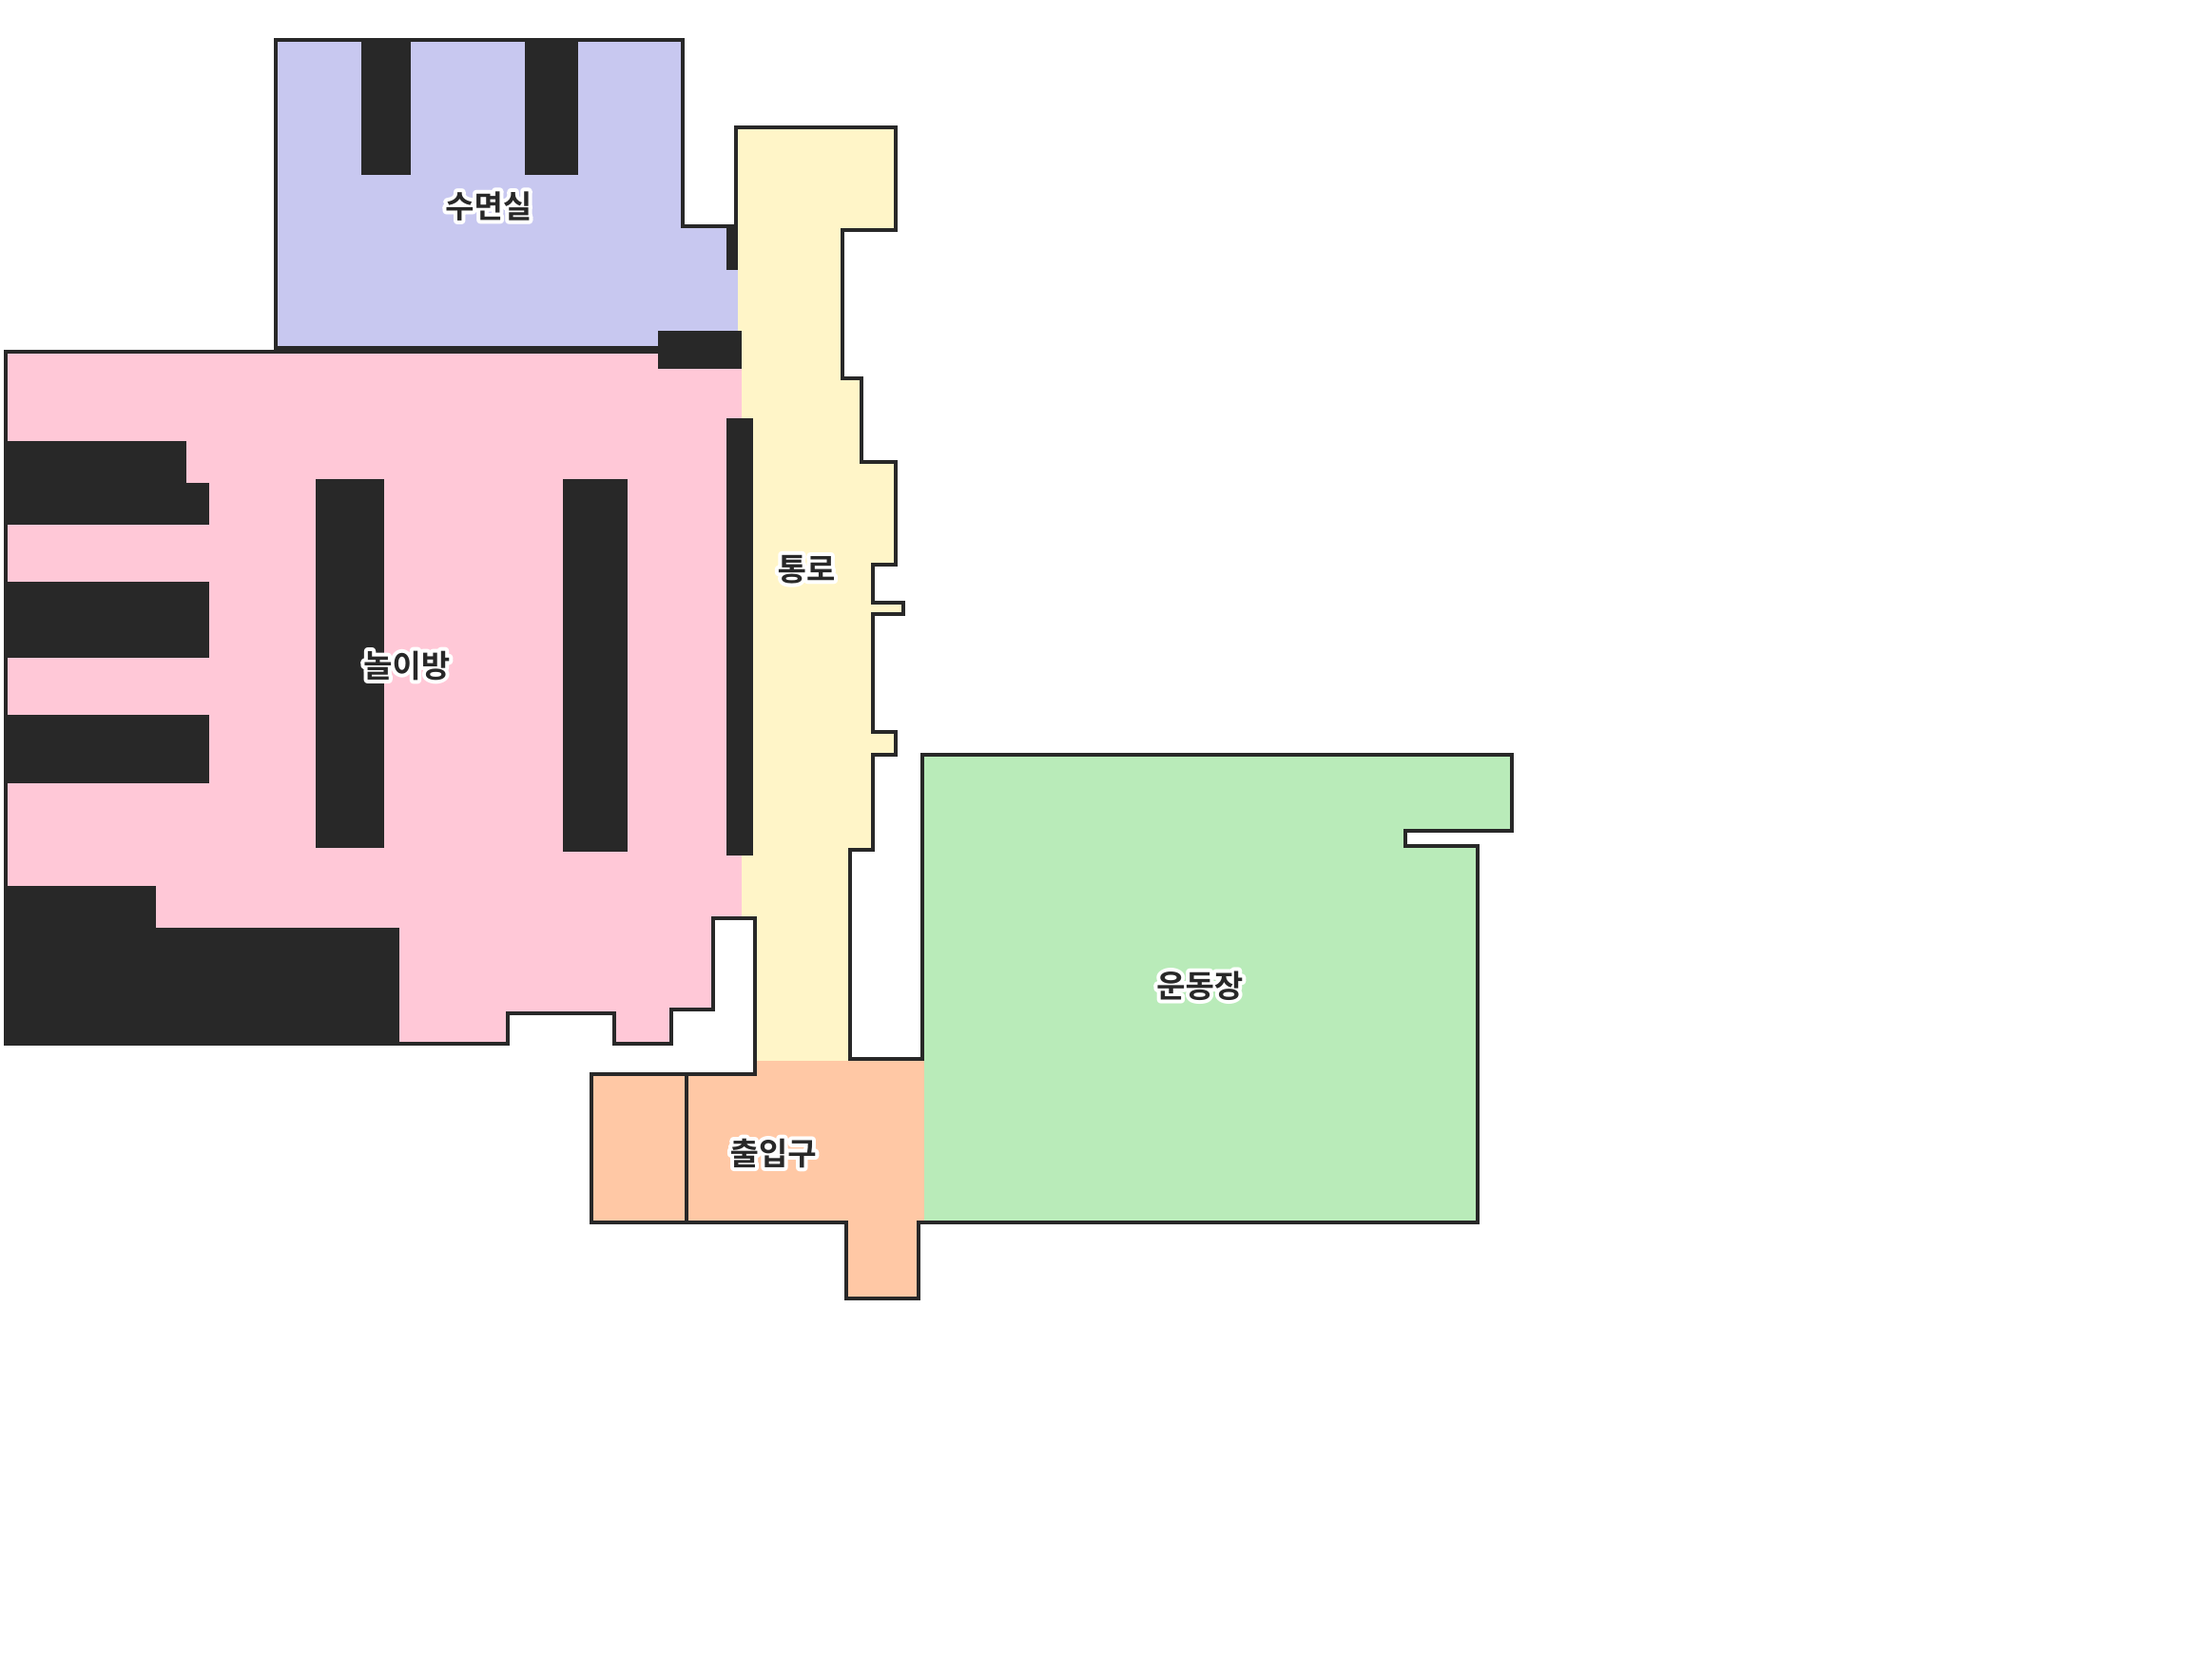
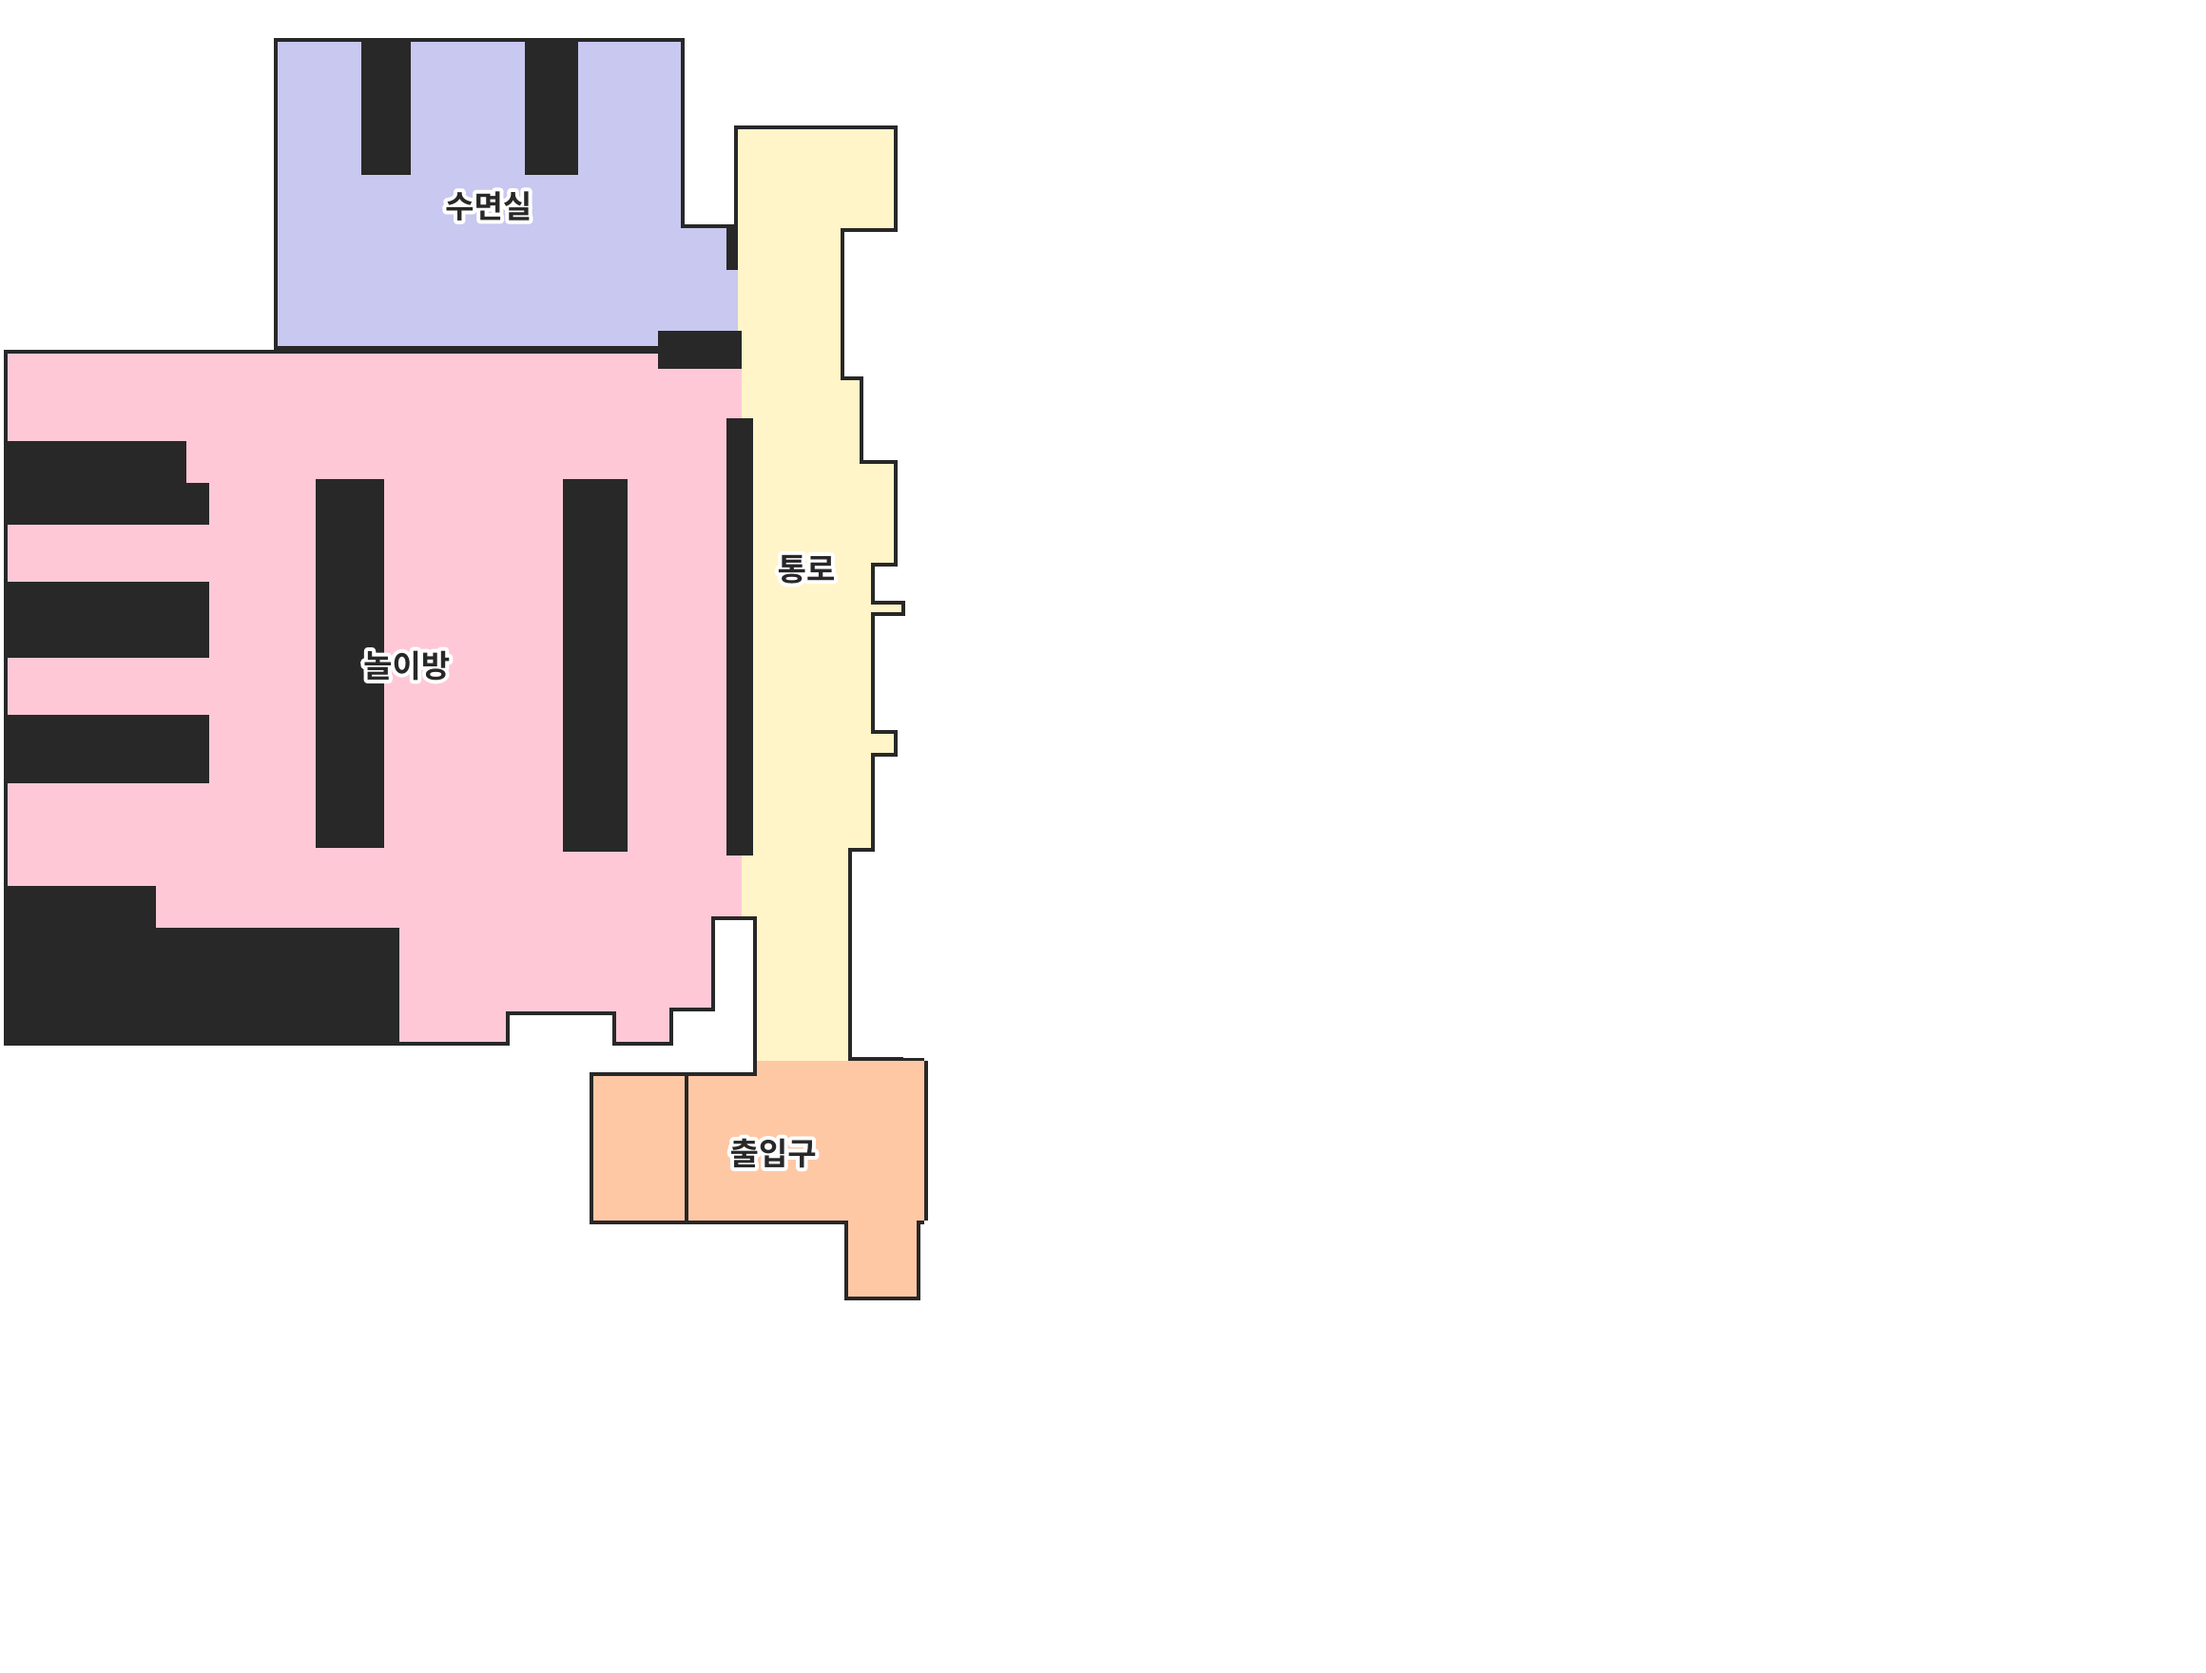
chore: remove 운동장 vertex references (default dest, aliases, map)

Changed region(s): [[0.4034, 0.4375, 0.7138, 0.75]]

diff --git a/service/ai-service/ai_service/intents/gogoping/goto_vertex.py b/service/ai-service/ai_service/intents/gogoping/goto_vertex.py
@@ -1,8 +1,8 @@
 """gogoping 전용 — 'X로 가' / 'X에 가' vertex routing.
 
 추가 기능:
-- vertex alias — 자연어 구절("밖으로 나가")을 특정 vertex(운동장)로 매핑. vertex 이름을
-  직접 안 말해도 이동. (별칭은 goto 패턴 없이도 트리거 — 구절 자체가 이동 의도)
+- vertex alias — 자연어 구절을 특정 vertex 로 매핑 (현재 비어 있음 — 운동장 제거됨).
+  vertex 이름을 직접 안 말해도 이동. (별칭은 goto 패턴 없이도 트리거 — 구절 자체가 이동 의도)
 - then_mode — 복합 명령 "X 가서 자장가" → 도착 후 모드 전환. 정보불필요 모드
   (자장가/수동/대기) 만. 순서 제어는 robot-web(client) 가 담당.
 """
@@ -19,16 +19,8 @@ _GOTO_PATTERNS = (
 )
 
 # 자연어 구절 → vertex 이름. 구체 구절만 (오탐 방지). 값은 waypoints.yaml 의 실제 vertex.
-_VERTEX_ALIASES: dict[str, str] = {
-    "밖으로 나가": "운동장",
-    "밖에 나가": "운동장",
-    "밖으로 나가자": "운동장",
-    "밖에 나가자": "운동장",
-    "밖으로 가": "운동장",
-    "밖에 가": "운동장",
-    "바깥으로 나가": "운동장",
-    "바깥에 나가": "운동장",
-}
+# (운동장 제거됨 — '밖으로 나가' 류 별칭 폐기. 새 별칭 필요 시 여기 추가.)
+_VERTEX_ALIASES: dict[str, str] = {}
 
 # STT 오인식 보정 — vertex 이름 변형 → 정식 vertex. goto 패턴과 함께일 때만 매칭(오탐 방지).
 # 정식 이름 매칭이 먼저 시도되고, 실패 시에만 fallback. 부분문자열이라 변형들을 한 번에 흡수:

diff --git a/controller/gogoping-controller/src/gogoping/gogoping_modes/gogoping_modes/bt/trees/sub_trees/BT_goto_sub.py b/controller/gogoping-controller/src/gogoping/gogoping_modes/gogoping_modes/bt/trees/sub_trees/BT_goto_sub.py
@@ -17,7 +17,7 @@ from ...blackboard import Keys
 
 
 _ARRIVAL_MSG = {"event": "announce", "text": "도착했습니다"}
-_DEFAULT_DESTINATION = "운동장-단상"   # force_state(GOTO) fallback (2026-05-28)
+_DEFAULT_DESTINATION = "복도"   # force_state(GOTO) fallback (운동장 제거됨 → 복도로 변경)
 
 
 def build_goto_subtree(ctx: Context) -> py_trees.behaviour.Behaviour:
